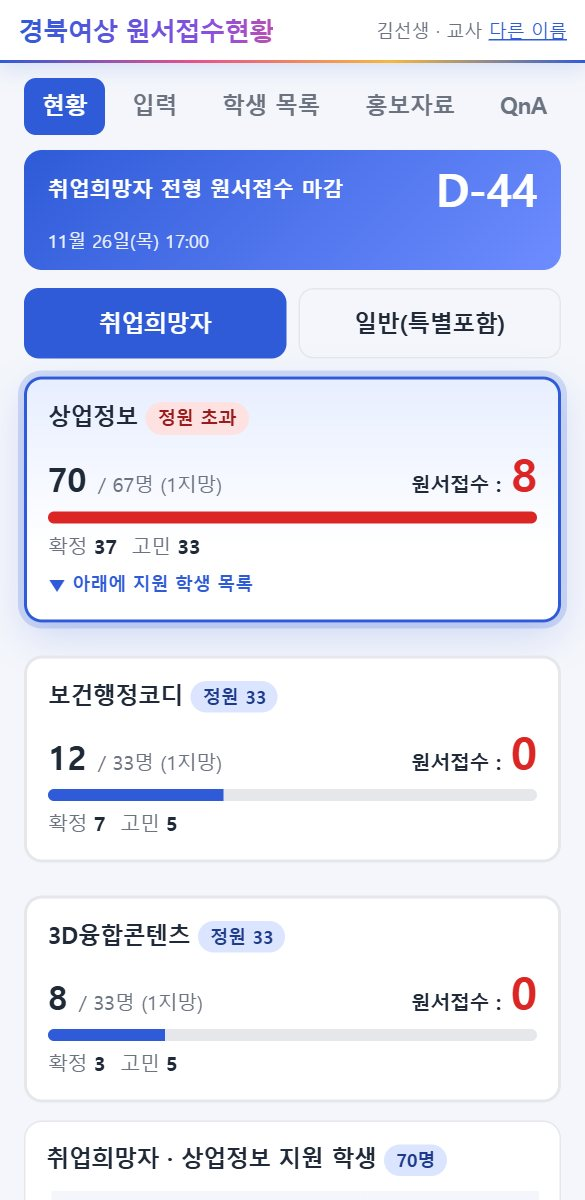
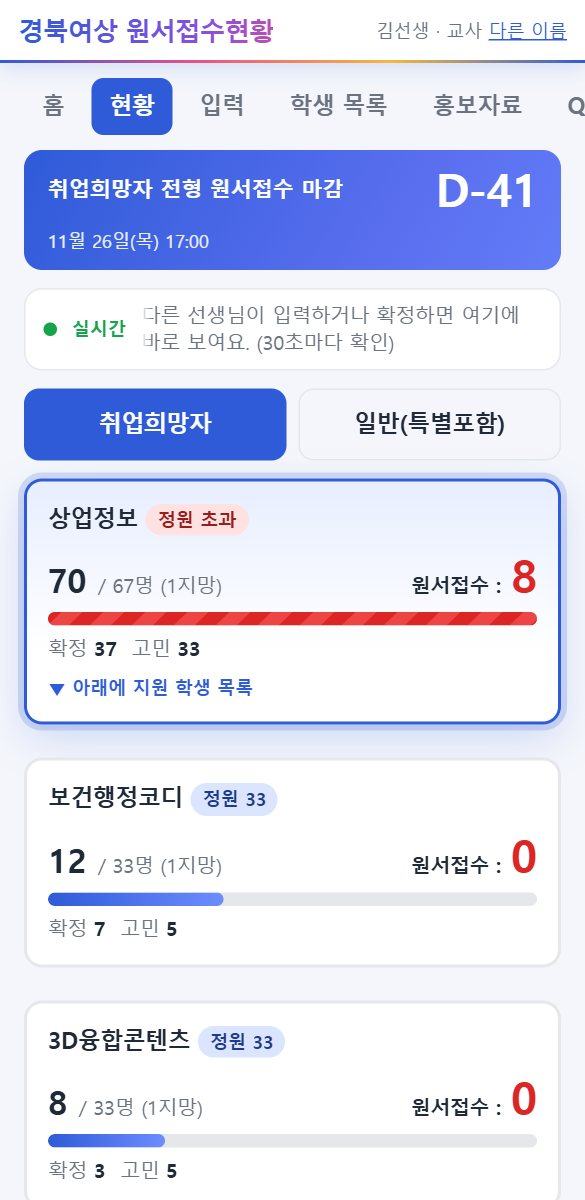
Manual: add home, live feed, save popup, promo center (poster, YouTube, zoom), student promo tab, back button; refreshed screenshots

diff --git a/manual/index.html b/manual/index.html
@@ -75,7 +75,7 @@ th{background:var(--soft)}
 <div class="cover">
   <div class="logo">원</div>
   <h1>경북여상 원서접수현황 이용안내</h1>
-  <p>2027학년도 신입생 모집 · 중학교 홍보 선생님용</p>
+  <p>2027학년도 신입생 모집 · 중학교 홍보 선생님용 · 2026년 10월 갱신판</p>
   <p style="font-size:13px">※ 이 안내서의 화면은 연습용 가짜 자료로 만든 예시입니다. 실제 학생 정보가 아닙니다.</p>
 </div>
 
@@ -84,17 +84,18 @@ th{background:var(--soft)}
   <ol>
     <li><a href="#s1">접속하고 로그인하기</a></li>
     <li><a href="#s2">화면 구성</a></li>
-    <li><a href="#s3">현황 보기</a></li>
-    <li><a href="#s4">학생 입력하기</a></li>
-    <li><a href="#s5">입력한 학생 확인·수정하기</a></li>
-    <li><a href="#s6">원서접수 처리하기</a></li>
-    <li><a href="#s7">학생 목록(전체 관리)</a></li>
-    <li><a href="#s8">홍보자료로 현장 홍보하기</a></li>
-    <li><a href="#s9">QnA: 현장 질문 남기고 답하기</a></li>
-    <li><a href="#s10">통계</a></li>
-    <li><a href="#s11">중학생용 페이지와 QR</a></li>
-    <li><a href="#s12">휴대폰에서 쓰기</a></li>
-    <li><a href="#s13">자주 겪는 일과 주의할 점</a></li>
+    <li><a href="#s3">첫 화면(홈)</a></li>
+    <li><a href="#s4">현황 보기</a></li>
+    <li><a href="#s5">학생 입력하기</a></li>
+    <li><a href="#s6">입력한 학생 확인·수정하기</a></li>
+    <li><a href="#s7">원서접수 처리하기</a></li>
+    <li><a href="#s8">학생 목록(전체 관리)</a></li>
+    <li><a href="#s9">홍보자료로 현장 홍보하기</a></li>
+    <li><a href="#s10">QnA: 현장 질문 남기고 답하기</a></li>
+    <li><a href="#s11">통계</a></li>
+    <li><a href="#s12">중학생용 페이지와 QR</a></li>
+    <li><a href="#s13">휴대폰에서 쓰기</a></li>
+    <li><a href="#s14">자주 겪는 일과 주의할 점</a></li>
   </ol>
 </div>
 
@@ -117,20 +118,41 @@ th{background:var(--soft)}
   <figure><img src="img/s02_layout.jpg" alt="화면 구성"><figcaption>① 메뉴 탭 ② 원서접수 마감 D-day ③ 로그인한 사람(다른 이름: 로그아웃)</figcaption></figure>
   <table>
     <tr><th style="width:26%">메뉴</th><th>하는 일</th></tr>
-    <tr><td><b>현황</b></td><td>전형·계열별 지원 인원과 학생 순위를 한눈에 봅니다.</td></tr>
+    <tr><td><b>홈</b></td><td>로그인하면 가장 먼저 나오는 첫 화면입니다. 공지, 계열별 현황 요약, 마감 D-day, 바로가기 버튼이 있습니다.</td></tr>
+    <tr><td><b>현황</b></td><td>전형·계열별 지원 인원과 학생 순위, <b>실시간 소식</b>을 한눈에 봅니다.</td></tr>
     <tr><td><b>입력</b></td><td>중학교 현장에서 만난 학생을 등록하고, 내가 입력한 학생을 확인·수정·접수합니다.</td></tr>
     <tr><td><b>학생 목록</b> (관리자는 <b>전체 관리</b>)</td><td>학생을 전형·계열별로 검색하고 수정합니다.</td></tr>
-    <tr><td><b>홍보자료</b></td><td>홍보자료 센터에서 홍보책자 등 자료를 골라 학교를 소개합니다. 책자는 발표 모드가 있습니다.</td></tr>
+    <tr><td><b>홍보자료</b></td><td>홍보자료 센터에서 <b>홍보책자, 설명회 포스터, 홍보 유튜브</b>를 골라 학교를 소개합니다.</td></tr>
     <tr><td><b>QnA</b></td><td>현장에서 받은 질문을 기록하고 선생님들이 답을 답니다.</td></tr>
     <tr><td><b>통계</b></td><td>중학교 소재 구·군별, 내신 성적대별 지원 현황입니다.</td></tr>
     <tr><td><b>중학생용</b></td><td>중학생에게 보여 줄 QR코드와 안내 페이지입니다.</td></tr>
     <tr><td><b>이용안내</b></td><td>지금 보고 계신 이 안내서입니다.</td></tr>
   </table>
-  <p>맨 위의 파란 띠는 <b>원서접수 마감까지 남은 날(D-day)</b>입니다. 취업희망자 전형 마감(11월 26일 17:00)이 지나면 자동으로 일반전형 마감(12월 3일 17:00)으로 바뀌고, 둘 다 끝나면 종료 안내가 나옵니다. 접수 기간에는 "접수 중"이 함께 표시됩니다.</p>
+  <p>(홈 화면을 뺀 모든 화면에서) 맨 위의 파란 띠는 <b>원서접수 마감까지 남은 날(D-day)</b>입니다. 홈 화면에서는 제목 아래에 같은 정보가 나옵니다. 취업희망자 전형 마감(11월 26일 17:00)이 지나면 자동으로 일반전형 마감(12월 3일 17:00)으로 바뀌고, 둘 다 끝나면 종료 안내가 나옵니다. 접수 기간에는 "접수 중"이 함께 표시됩니다.</p>
 </section>
 
 <section id="s3">
-  <h2><span class="n">3</span>현황 보기</h2>
+  <h2><span class="n">3</span>첫 화면(홈)</h2>
+  <p class="lead">로그인하면 가장 먼저 나오는 화면입니다. 지금 중요한 소식을 한눈에 보고, 바로가기 버튼으로 원하는 메뉴로 갑니다.</p>
+  <figure><img src="img/n_home.jpg" alt="첫 화면"><figcaption>첫 화면: 제목, 원서접수 마감 D-day, 계열별 현황, 공지, 바로가기 버튼</figcaption></figure>
+  <ul class="st">
+    <li><b>원서접수 마감 D-day</b>: 취업희망자 전형 마감까지, 지나면 일반전형 마감까지 남은 날을 크게 보여 줍니다.</li>
+    <li><b>계열별 현황</b>: 상업·보건·3D 계열의 <b>정원 / 작성(확정/고민) / 접수</b> 인원을 큰 숫자로 보여 줍니다. 작성 인원이 정원을 넘으면 숫자가 붉게, 접수 숫자는 초록으로 빛납니다. 오른쪽 위 버튼으로 <b>취업희망자 / 일반</b> 전형을 바꿔 봅니다. 화면을 켜 두면 30초마다 자동으로 새로 고쳐집니다.</li>
+    <li><b>공지</b>: 학교에서 알리는 소식이 나옵니다. 공지가 여러 개이면 5초마다 바뀌고, 아래 점을 눌러 직접 넘길 수 있습니다. 공지가 없을 때는 인사말이 나옵니다.</li>
+    <li><b>바로가기 버튼</b>: 현황, 입력, 학생 목록, 홍보자료, QnA, 통계, 중학생용으로 한 번에 이동합니다. (권한에 따라 보이는 버튼이 다릅니다.)</li>
+  </ul>
+  <h3>관리자: 공지 쓰기</h3>
+  <p>관리자 계정에는 공지 카드에 <b>✏ 공지 쓰기</b> 버튼이 있습니다. 교사·열람 계정에는 보이지 않습니다.</p>
+  <figure><img src="img/n_notice.jpg" alt="공지 쓰기"><figcaption>공지 쓰기: 한 줄에 공지 하나씩 적고 저장합니다.</figcaption></figure>
+  <ol class="st">
+    <li><b>✏ 공지 쓰기</b>를 누르고 내용을 적습니다. 한 줄이 공지 하나이고, 최대 10개까지 쓸 수 있습니다.</li>
+    <li><b>저장</b>을 누르면 구글 시트에 기록되고, 모든 선생님의 첫 화면에 곧 반영됩니다.</li>
+    <li>모두 지우고 저장하면 공지가 사라지고 기본 인사말이 나옵니다.</li>
+  </ol>
+</section>
+
+<section id="s4">
+  <h2><span class="n">4</span>현황 보기</h2>
   <p class="lead">전형(취업희망자 / 일반)을 고르고, 계열 카드를 누르면 아래에 그 계열 학생이 표로 나옵니다.</p>
   <figure><img src="img/s03_cards.jpg" alt="계열별 현황 카드"><figcaption>① 정원을 넘으면 <b>정원 초과</b> 표시 ② 눌러서 선택한 계열 ③ 큰 빨간 숫자는 <b>원서접수가 끝난 인원</b></figcaption></figure>
   <ul class="st">
@@ -147,10 +169,23 @@ th{background:var(--soft)}
   <h3>분홍색 줄 = 정원 밖</h3>
   <figure><img src="img/s03_out.jpg" alt="정원 밖 표시"><figcaption>① <span class="tag t-out">정원 밖</span> 표시와 분홍색 줄</figcaption></figure>
   <div class="tip"><b>계산 방법</b>접수가 끝난 학생이 먼저 자리를 차지합니다. 예) 상업정보 정원이 67명이고 접수 완료가 2명이면, 접수 전 학생은 65등까지가 안쪽이고 <b>66등부터 분홍색</b>입니다. 분홍색 학생에게는 다른 계열 지원을 안내하는 등 미리 대비할 수 있습니다. 접수가 늘면 경계는 자동으로 움직입니다.</div>
+  <h3>실시간 소식과 오늘 입력한 학생 표시</h3>
+  <figure><img src="img/n_live.jpg" alt="실시간 소식"><figcaption>① 맨 위 <b>실시간</b> 줄 ② 오늘 입력된 계열 카드(+N 신규, 접수 +N) ③ 오늘 입력된 학생 줄(NEW, 접수 표시)</figcaption></figure>
+  <ul class="st">
+    <li><b>실시간 줄</b>: 다른 선생님이 학생을 입력하거나 확정·접수하면 "이선생 상업정보 새 입력 3분 전"처럼 소식이 나옵니다. 오른쪽에서 왼쪽으로 계속 흘러가고, 줄에 마우스를 올리거나 손가락으로 누르면 멈춥니다.</li>
+    <li>최근 <b>3일</b> 동안의 소식이 모두 나옵니다. (새 입력, 확정, 원서접수만 나오고 단순 수정은 나오지 않습니다.)</li>
+    <li><b>오늘(당일) 입력된 것은 반짝입니다.</b> 소식 칸은 금색으로 빛나고, 계열 카드에는 별과 <b>+2 신규</b> 표시, 학생 줄에는 금색 바탕과 <b>NEW</b>·<b>확정</b>·<b>접수</b> 표시가 붙습니다. 자정이 지나면 자동으로 꺼집니다.</li>
+    <li>화면을 켜 두면 <b>30초마다 자동</b>으로 새로 불러옵니다. (입력 화면에서는 입력하던 내용이 지워지지 않도록 멈춥니다.)</li>
+    <li>컴퓨터든 휴대폰이든 같은 소식이 보입니다. 다른 사람이 입력한 학생은 새로고침하지 않아도 나타납니다.</li>
+  </ul>
+  <h3>소식을 누르면 학생 정보</h3>
+  <figure><img src="img/n_livecard.jpg" alt="학생 정보 카드"><figcaption>실시간 소식을 누르면 학생 정보 카드가 열립니다.</figcaption></figure>
+  <p>흘러가는 소식을 누르면 그 학생의 정보(순위, 학교, 단계, 내신, 연락처, 담임, 유의사항)가 학생 목록과 같은 모양으로 열립니다. 내가 입력한 학생이거나 관리자·접수 도우미라면 여기서 바로 <b>수정</b>, <b>삭제</b>, <b>접수</b>도 할 수 있습니다. 닫을 때는 ✕ 버튼, 바깥 누르기, Esc 키, 휴대폰 뒤로가기를 쓰면 됩니다.</p>
+  <div class="tip"><b>알아 두세요</b>학생 상세 정보를 볼 수 있는 계정에서만 소식과 반짝임이 나옵니다. 이름이 가려지는 학생은 보이지 않습니다.</div>
 </section>
 
-<section id="s4">
-  <h2><span class="n">4</span>학생 입력하기</h2>
+<section id="s5">
+  <h2><span class="n">5</span>학생 입력하기</h2>
   <p class="lead">중학교에서 상담한 학생이 있으면 <b>입력</b> 메뉴 아래쪽 <b>학생 입력</b> 칸에 적습니다.</p>
   <h3>① 단계 고르기</h3>
   <figure><img src="img/s04_stage.jpg" alt="단계 선택"><figcaption>① <b>확정</b> 또는 <b>고민 중</b> ② 고민 중을 누르면 나타나는 <b>고민 내용</b> 칸</figcaption></figure>
@@ -173,15 +208,21 @@ th{background:var(--soft)}
   <h3>③ 저장</h3>
   <ol class="st">
     <li>맨 아래 <span class="btn">저장</span>을 <b>한 번만</b> 누릅니다.</li>
-    <li>저장에 2~4초 걸립니다. 그동안 "저장 중입니다" 안내가 나오니 <b>다시 누르지 말고 기다리세요.</b></li>
-    <li>"✓ 저장했습니다"가 나오면 끝입니다. 같은 중학교에서 이어서 입력할 수 있도록 <b>전형·중학교·담임 정보는 남아 있고</b>, 나머지는 비워집니다.</li>
+    <li>저장하는 2~4초 동안 화면이 어두워지며 <b>"저장 중입니다. 버튼을 다시 누르지 말고 잠시만 기다려 주세요…"</b> 안내가 나옵니다. 그동안 버튼은 눌러도 반응하지 않습니다.</li>
+    <li>끝나면 <b>"입력이 완료되었습니다"</b> 팝업이 뜹니다. 저장된 학교·이름·계열·단계가 함께 보이며, <b>확인</b>을 누르거나 약 6초 기다리면 닫힙니다. 같은 학생을 다시 저장하지 않아도 됩니다.</li>
+    <li>팝업이 닫히면 화면이 자동으로 맨 위로 올라가 <b>내가 입력한 학생</b> 표에서 방금 저장한 학생을 확인할 수 있습니다. 같은 중학교에서 이어서 입력할 수 있도록 <b>전형·중학교·담임 정보는 남아 있고</b>, 나머지는 비워집니다.</li>
   </ol>
+  <figure class="pair">
+    <div><img src="img/n_saving.jpg" alt="저장 중 화면"><figcaption>저장 중</figcaption></div>
+    <div><img src="img/n_done.jpg" alt="입력 완료 팝업"><figcaption>입력 완료</figcaption></div>
+  </figure>
+  <div class="warn"><b>"저장하지 못했습니다"(빨간 X)가 뜨면</b>인터넷 연결이 불안정해서 저장되지 않은 것입니다. 실패 이유가 함께 나오고 <b>입력한 내용은 그대로 남아 있습니다.</b> 팝업을 닫고 다시 저장해 보세요. 반복되면 새로고침하기 전에 입력 내용을 따로 적어 두세요.</div>
   <div class="warn"><b>같은 학생이 이미 있으면</b>"이미 입력된 학생입니다. 담당교사: ○○○ …"라는 확인창이 나옵니다. 같은 학교·같은 이름이면 중복입니다. 정말 다른 학생일 때만 확인을 눌러 저장하세요.</div>
   <div class="tip"><b>개인정보</b>학생 연락처는 입학 업무에만 쓰고, 화면을 다른 사람에게 보여 주거나 캡처해 외부에 올리지 마세요.</div>
 </section>
 
-<section id="s5">
-  <h2><span class="n">5</span>입력한 학생 확인·수정하기</h2>
+<section id="s6">
+  <h2><span class="n">6</span>입력한 학생 확인·수정하기</h2>
   <p class="lead"><b>입력</b> 메뉴 맨 위 <b>내가 입력한 학생</b>에 내가 등록한 학생이 모입니다.</p>
   <figure><img src="img/s05_mine.jpg" alt="내가 입력한 학생"><figcaption>① <b>접수</b> 버튼(원서접수 처리) ② <b>수정</b> 버튼</figcaption></figure>
   <ol class="st">
@@ -198,8 +239,8 @@ th{background:var(--soft)}
   <p>잘못 입력한 학생은 수정 화면 맨 아래 <b>이 학생 삭제</b>로 지울 수 있습니다. 본인이 입력한 학생만 수정·삭제할 수 있습니다. (관리자는 모든 학생)</p>
 </section>
 
-<section id="s6">
-  <h2><span class="n">6</span>원서접수 처리하기</h2>
+<section id="s7">
+  <h2><span class="n">7</span>원서접수 처리하기</h2>
   <p class="lead">학생이 실제로 원서를 접수했다고 확인되면 <span class="btn">접수</span> 버튼으로 기록합니다.</p>
   <ol class="st">
     <li>현황 표, <b>내가 입력한 학생</b>, 학생 목록 어디서든 학생 줄에 있는 <span class="btn">접수</span>를 누릅니다.</li>
@@ -217,8 +258,8 @@ th{background:var(--soft)}
   </ul>
 </section>
 
-<section id="s7">
-  <h2><span class="n">7</span>학생 목록(전체 관리)</h2>
+<section id="s8">
+  <h2><span class="n">8</span>학생 목록(전체 관리)</h2>
   <p class="lead">전형 → 계열 순서로 골라서 학생을 모아 보고, 이름·학교로 검색합니다.</p>
   <figure><img src="img/s07_list.jpg" alt="학생 목록"><figcaption>학생 목록. 위에서부터 전형, 계열, 검색 순서입니다.</figcaption></figure>
   <ol class="st">
@@ -232,28 +273,57 @@ th{background:var(--soft)}
   <p>접수 도우미로 지정된 관리자 계정에서는 학생 앞에 체크칸이 생기고, 위쪽에서 <b>원서접수(접수/미접수)</b>와 관리자 메모를 정해 <b>선택 학생에 적용</b>을 누르면 여러 명을 한 번에 처리합니다. (이 기능은 접수 도우미 전용입니다.)</p>
 </section>
 
-<section id="s8">
-  <h2><span class="n">8</span>홍보자료로 현장 홍보하기</h2>
+<section id="s9">
+  <h2><span class="n">9</span>홍보자료로 현장 홍보하기</h2>
   <p class="lead">중학교를 방문했을 때 홍보 자료를 화면으로 보여 주며 설명할 수 있습니다. <b>홍보자료</b> 메뉴를 누르면 먼저 <b>홍보자료 센터</b>가 나옵니다.</p>
-  <figure><img src="img/s08_hub.jpg" alt="홍보자료 센터"><figcaption>홍보자료 센터: 보여 줄 자료를 카드로 고릅니다.</figcaption></figure>
+  <figure><img src="img/n_hub.jpg" alt="홍보자료 센터"><figcaption>홍보자료 센터: 보여 줄 자료를 카드로 고릅니다. 책 아이콘은 책장이 계속 넘어갑니다.</figcaption></figure>
+  <table>
+    <tr><th style="width:26%">카드</th><th>내용</th></tr>
+    <tr><td><b>홍보책자</b></td><td>2027학년도 신입생 모집 홍보책자(24쪽)를 넘겨 보며 설명합니다.</td></tr>
+    <tr><td><b>설명회 포스터</b></td><td>3차 입학설명회(11월 14일 토요일 오전 10시, 학교 내 강당 우봉관) 안내 포스터입니다. 보기, PDF 내려받기, 인쇄를 할 수 있습니다.</td></tr>
+    <tr><td><b>홍보 유튜브</b></td><td>학교 유튜브 채널의 영상을 분류별로 모아 놓았습니다. 화면 안에서 바로 재생합니다.</td></tr>
+    <tr><td><b>공사 중</b></td><td>앞으로 새 홍보 자료가 들어올 자리입니다.</td></tr>
+  </table>
+  <p>각 자료 화면 맨 위의 <b>← 홍보자료 센터</b>를 누르면 센터로 돌아옵니다.</p>
+
+  <h3>① 홍보책자 보기</h3>
+  <figure><img src="img/n_book.jpg" alt="홍보책자 화면"><figcaption>① 항목 버튼(10개 항목이 줄바꿈으로 모두 보입니다) ② 확대 단계 <b>− 150% +</b></figcaption></figure>
   <ul class="st">
-    <li><b>홍보책자</b>: 누르면 2027 홍보책자(24쪽)가 열립니다. 아래 설명이 이 화면에 대한 것입니다. 책자 화면 맨 위의 <b>← 홍보자료 센터</b>를 누르면 센터로 돌아옵니다.</li>
-    <li><b>홍보 유튜브</b>, <b>공사 중</b>: 준비 중인 자료입니다. 누르면 카드가 흔들리며 "곧 추가될 예정"이라는 안내가 나옵니다. 새 자료가 생기면 이 센터에 카드가 추가됩니다.</li>
+    <li>위의 <b>항목 버튼</b>을 눌러 원하는 부분으로 바로 이동합니다. 오른쪽에는 <b>"이 페이지에서 전할 포인트"</b>가 있어 설명할 말을 참고할 수 있습니다.</li>
+    <li>쪽 넘기기: 화면의 ‹ › 버튼, 키보드 ← →, 휴대폰은 <b>좌우로 밀기</b>. 쪽을 넘기면 배율은 100%로 돌아갑니다.</li>
+    <li><b>단계별 확대</b>: <b>− / +</b> 버튼을 누를 때마다 100% → 125% → 150% → 200% → 250% → 300% → 400% → 500%로 한 단계씩 커지고 작아집니다. 가운데 <b>%</b> 숫자를 누르면 100%로 한 번에 돌아갑니다. 키보드는 <b>+</b>, <b>-</b>, <b>0</b>(100%)입니다.</li>
+    <li>사진을 <b>한 번 누르면</b> 100%와 200%를 오가고(누른 곳이 가운데로 옵니다), 확대한 뒤에는 끌어서 움직입니다.</li>
+    <li>휴대폰에서는 <b>두 손가락을 벌리고 오므려</b> 원하는 크기로 자유롭게 확대·축소할 수 있습니다.</li>
   </ul>
-  <h3>홍보책자 보기</h3>
-  <figure><img src="img/s08_promo.jpg" alt="홍보자료 화면"><figcaption>① 항목 버튼: 10개 항목이 줄바꿈으로 모두 보입니다.</figcaption></figure>
+  <h3>발표 모드(전체 화면)</h3>
+  <figure class="phone"><img src="img/n_fs.jpg" alt="발표 모드 확대"><figcaption>발표 모드: 화면 아래 가운데의 <b>− 200% +</b> 막대로 확대 단계를 바꿉니다.</figcaption></figure>
   <ul class="st">
-    <li>위의 <b>항목 버튼</b>을 눌러 원하는 부분으로 바로 이동합니다.</li>
-    <li>오른쪽에는 <b>"이 페이지에서 전할 포인트"</b>가 있어 설명할 말을 참고할 수 있습니다.</li>
-    <li>쪽 넘기기: 화면의 ‹ › 버튼, 키보드 ← →, 휴대폰은 <b>좌우로 밀기</b>.</li>
-    <li>사진을 누르면 <b>확대</b>되고, 확대한 뒤에는 끌어서 움직일 수 있습니다. 다시 누르면 원래대로.</li>
-    <li><b>발표 모드</b>: 큰 화면(TV·프로젝터)에 연결해 책자만 가득 채워 보여 줍니다. 종료는 Esc 또는 닫기 버튼입니다. 발표 중에는 화면이 꺼지지 않도록 유지됩니다.</li>
+    <li><b>발표 모드</b>를 누르면 큰 화면(TV·프로젝터)이나 휴대폰 전체에 책자만 가득 채워 보여 줍니다. 종료는 Esc 또는 위쪽 <b>닫기</b> 버튼입니다. 발표 중에는 화면이 꺼지지 않도록 유지됩니다.</li>
+    <li>발표 모드에서도 아래 가운데 <b>− % +</b> 막대, 사진 탭, 두 손가락 확대가 모두 됩니다. 확대하면 위아래·좌우로 끌어서 볼 수 있습니다.</li>
   </ul>
   <div class="tip"><b>미리 해 두세요</b>학교에 가기 전에 한 번 열어 이미지를 불러 둡니다. 인터넷이 약한 곳에서도 넘기는 속도가 빨라집니다.</div>
+
+  <h3>② 설명회 포스터</h3>
+  <figure><img src="img/n_poster.jpg" alt="설명회 포스터 화면"><figcaption>설명회 포스터 화면: <b>PDF 내려받기</b>, <b>크게 보기</b>, <b>인쇄</b> 버튼</figcaption></figure>
+  <ul class="st">
+    <li><b>PDF 내려받기</b>: 메신저·메일로 중학교에 보내거나 인쇄해 게시판에 붙일 때 씁니다. A4 세로 크기입니다.</li>
+    <li><b>크게 보기</b>: 포스터 그림을 새 창에서 크게 엽니다. <b>인쇄</b>: 포스터만 바로 인쇄합니다.</li>
+    <li>포스터의 QR을 찍으면 중학생용 안내 페이지로 연결됩니다.</li>
+  </ul>
+
+  <h3>③ 홍보 유튜브</h3>
+  <figure><img src="img/n_yt.jpg" alt="홍보 유튜브 화면"><figcaption>홍보 유튜브: 검색창과 분류 버튼으로 영상을 고릅니다.</figcaption></figure>
+  <ul class="st">
+    <li>영상 119개가 <b>학교 소개·입학설명회 / 학과 소개 / 취업 이야기 / 대회·수상작 / 학생 크리에이터 영상 / 학교 행사·학교 생활 / 졸업식 / 방송·기타</b>로 나뉘어 있습니다. 분류 버튼을 누르면 그 분류만 모아 보여 줍니다.</li>
+    <li>분류마다 처음 6개만 보이고 <b>"+N개 더 보기"</b>로 펼칩니다. 검색창에 <b>대구은행, 체육대회, 3D</b>처럼 제목의 일부를 적으면 바로 걸러집니다.</li>
+    <li>영상 카드를 누르면 화면 안에서 재생됩니다. 재생이 안 되면 <b>"유튜브에서 열기"</b>를 누르세요. 닫을 때는 ✕, 바깥 누르기, Esc, 휴대폰 뒤로가기를 쓰면 되고 소리도 함께 멈춥니다.</li>
+    <li><b>"유튜브 채널에서 전체 보기"</b> 버튼으로 학교 유튜브 채널로 이동합니다.</li>
+  </ul>
+  <div class="warn"><b>알아 두세요</b>영상 목록은 2026년 10월 15일 기준입니다. 새 영상이 올라오면 목록에 추가해야 보입니다. 학교나 현장 네트워크에서 유튜브가 막혀 있으면 영상이 나오지 않을 수 있으니, 방문 전에 미리 확인하세요.</div>
 </section>
 
-<section id="s9">
-  <h2><span class="n">9</span>QnA: 현장 질문 남기고 답하기</h2>
+<section id="s10">
+  <h2><span class="n">10</span>QnA: 현장 질문 남기고 답하기</h2>
   <p class="lead">현장에서 학생·학부모·중학교 선생님께 받은 질문을 남겨 두면, 선생님 누구나 답을 달 수 있습니다. 모아 두면 다음 학교 방문 때 바로 활용할 수 있습니다.</p>
   <figure><img src="img/s09_qna.jpg" alt="QnA 목록"><figcaption>질문 목록. 질문을 누르면 답변이 펼쳐집니다. 처음에는 입학전형 요강 기반의 <b>자주 묻는 질문</b>이 들어 있습니다.</figcaption></figure>
   <h3>질문 등록</h3>
@@ -272,8 +342,8 @@ th{background:var(--soft)}
   <p>잘못 올린 질문은 작성자 본인 또는 관리자가 삭제할 수 있습니다. <b>학생용 공개</b>는 관리자가 정합니다. 공개된 질문과 답만 중학생 페이지의 "질문과 답변"에 나타나고, 질문한 학교·사람·등록자는 나가지 않습니다.</p>
 </section>
 
-<section id="s10">
-  <h2><span class="n">10</span>통계</h2>
+<section id="s11">
+  <h2><span class="n">11</span>통계</h2>
   <p class="lead">지원 현황을 구·군별, 내신 성적대별로 모아 보는 화면입니다.</p>
   <figure><img src="img/s10_stat.jpg" alt="통계"><figcaption>중학교 소재 구·군별 지원 현황</figcaption></figure>
   <ul class="st">
@@ -283,8 +353,8 @@ th{background:var(--soft)}
   </ul>
 </section>
 
-<section id="s11">
-  <h2><span class="n">11</span>중학생용 페이지와 QR</h2>
+<section id="s12">
+  <h2><span class="n">12</span>중학생용 페이지와 QR</h2>
   <p class="lead">학생이 직접 휴대폰으로 보는 안내 페이지입니다. 로그인이 필요 없습니다.</p>
   <figure><img src="img/s11_stu.jpg" alt="중학생용 QR"><figcaption><b>중학생용</b> 메뉴: 큰 QR코드를 보여 주면 학생이 휴대폰 카메라로 찍어 바로 열 수 있습니다.</figcaption></figure>
   <ul class="st">
@@ -294,11 +364,19 @@ th{background:var(--soft)}
   </ul>
   <h3>학생이 보게 되는 화면</h3>
   <figure class="phone"><img src="img/st01.jpg" alt="학생 화면"><figcaption>학생용 첫 화면. 맨 위에 원서접수 마감 D-day가 보입니다.</figcaption></figure>
-  <p>탭은 <b>학교 소개</b>(홍보책자) · <b>입학 안내</b>(일정·설명회·모집 인원·선발 방법) · <b>점수 계산</b>(내신 점수 계산기) · <b>학과 찾기</b>(5문항 퀴즈) · <b>질문과 답변</b>입니다.</p>
+  <p>탭은 <b>학교 소개</b>(홍보책자) · <b>입학 안내</b>(일정·설명회·모집 인원·선발 방법) · <b>홍보자료</b> · <b>점수 계산</b>(내신 점수 계산기) · <b>학과 찾기</b>(5문항 퀴즈) · <b>질문과 답변</b>입니다.</p>
+  <h3>학생이 보는 홍보자료 메뉴</h3>
+  <figure class="phone"><img src="img/n_stu_hub.jpg" alt="중학생용 홍보자료"><figcaption>학생용 <b>홍보자료</b> 메뉴: 홍보책자 · 설명회 포스터 · 홍보 유튜브</figcaption></figure>
+  <ul class="st">
+    <li><b>홍보책자</b>: 누르면 "학교 소개" 탭의 책자로 이동합니다.</li>
+    <li><b>설명회 포스터</b>: 3차 입학설명회 안내 포스터를 보고 PDF로 내려받습니다.</li>
+    <li><b>홍보 유튜브</b>: 분류 버튼과 검색으로 영상을 골라 화면 안에서 봅니다. 학생 화면은 큰 카드와 밝은 색으로 쉽게 만들었고, "홍보자료" 탭을 다시 누르면 처음 화면으로 돌아옵니다.</li>
+    <li>선생님 앱의 홍보자료와 같은 자료를 씁니다. 포스터나 영상이 바뀌면 두 곳이 함께 바뀝니다.</li>
+  </ul>
 </section>
 
-<section id="s12">
-  <h2><span class="n">12</span>휴대폰에서 쓰기</h2>
+<section id="s13">
+  <h2><span class="n">13</span>휴대폰에서 쓰기</h2>
   <p class="lead">휴대폰에서도 같은 주소로 들어가면 화면이 알맞게 바뀝니다. 현장에서 학생을 만나자마자 입력할 수 있습니다.</p>
   <figure class="pair">
     <div><img src="img/m01_home.jpg" alt="휴대폰 현황"><figcaption>현황</figcaption></div>
@@ -307,14 +385,16 @@ th{background:var(--soft)}
   </figure>
   <ul class="st">
     <li>메뉴 탭이 화면보다 길면 <b>옆으로 밀어서</b> 나머지 메뉴(QnA·통계·중학생용·이용안내)를 봅니다.</li>
+    <li><b>뒤로가기</b>를 눌러도 앱이 바로 닫히지 않습니다. 책자나 포스터 화면에서는 센터로, 다른 메뉴에서는 첫 화면으로 돌아가고, 첫 화면에서는 "한 번 더 뒤로가기를 누르면 나갑니다" 안내가 뜬 뒤 <b>2.5초 안에 한 번 더</b> 눌러야 나갑니다. 팝업이 열려 있을 때는 팝업만 닫힙니다.</li>
+    <li>입력 탭에 학생 이름 등을 적은 상태로 새로고침하거나 창을 닫으려 하면 <b>"나가시겠습니까?"</b> 확인창이 떠서 입력 내용을 지키게 해 줍니다.</li>
     <li>표가 넓으면 표를 <b>좌우로 밀어</b> 오른쪽 열을 봅니다. 학생 목록은 카드 형태로 보입니다.</li>
     <li>연락처를 누르면 <b>바로 전화</b>가 걸립니다.</li>
     <li><b>홈 화면에 추가</b>해 두면 앱처럼 바로 열립니다. 안드로이드 크롬: 오른쪽 위 ⋮ → "홈 화면에 추가". 아이폰 사파리: 공유 버튼 → "홈 화면에 추가".</li>
   </ul>
 </section>
 
-<section id="s13">
-  <h2><span class="n">13</span>자주 겪는 일과 주의할 점</h2>
+<section id="s14">
+  <h2><span class="n">14</span>자주 겪는 일과 주의할 점</h2>
   <table>
     <tr><th style="width:36%">이럴 때</th><th>이렇게 하세요</th></tr>
     <tr><td>"이름 또는 접속코드가 맞지 않습니다"</td><td>이름의 띄어쓰기·오타를 확인하고 코드를 다시 입력해 보세요. 그래도 안 되면 접수 담당 선생님께 문의하세요.</td></tr>
@@ -324,6 +404,11 @@ th{background:var(--soft)}
     <tr><td>실수로 접수를 눌렀음</td><td>같은 줄의 <b>취소</b>를 누르세요.</td></tr>
     <tr><td>학교 이름이 목록에 없음</td><td>직접 입력해도 저장됩니다. 학교 이름은 "구암중"처럼 짧은 이름으로 통일해 주세요.</td></tr>
     <tr><td>학생의 마음이 바뀜 (확정 → 고민, 타교지원 등)</td><td>해당 학생 <b>수정</b>에서 단계를 바꿉니다.</td></tr>
+    <tr><td>방금 입력한 학생이 현황에서 반짝이지 않음</td><td>오늘 입력된 학생만 반짝입니다. 어제 이전 입력이거나, 학생 상세를 볼 수 없는 계정일 수 있습니다. 화면은 30초마다 자동 갱신되니 잠시 기다리거나 새로고침해 보세요.</td></tr>
+    <tr><td>"저장하지 못했습니다" 팝업이 뜸</td><td>인터넷 연결을 확인하고 팝업을 닫은 뒤 다시 저장하세요. 입력한 내용은 남아 있습니다.</td></tr>
+    <tr><td>공지 쓰기 버튼이 안 보이거나 저장이 안 됨</td><td>관리자 계정에만 보입니다. 저장이 안 되면 서버를 새 버전으로 배포하지 않은 경우일 수 있으니 관리자에게 알려 주세요.</td></tr>
+    <tr><td>홍보 유튜브 영상·썸네일이 안 보임</td><td>유튜브가 막힌 네트워크일 수 있습니다. 다른 와이파이나 데이터로 바꿔 보세요. 방문 전에 미리 열어 확인하는 것이 좋습니다.</td></tr>
+    <tr><td>홍보책자가 확대되지 않음</td><td><b>+</b> 버튼이나 사진 탭, 두 손가락 벌리기를 써 보세요. 쪽을 넘기면 100%로 돌아갑니다.</td></tr>
     <tr><td>저장이 오래 걸림</td><td>2~4초는 정상입니다. 10초 넘게 반응이 없으면 인터넷 연결을 확인하고 새로고침한 뒤 입력 여부를 확인하세요. 중복 입력 경고가 뜨면 이미 저장된 것입니다.</td></tr>
   </table>
   <div class="warn"><b>꼭 지켜 주세요</b>
